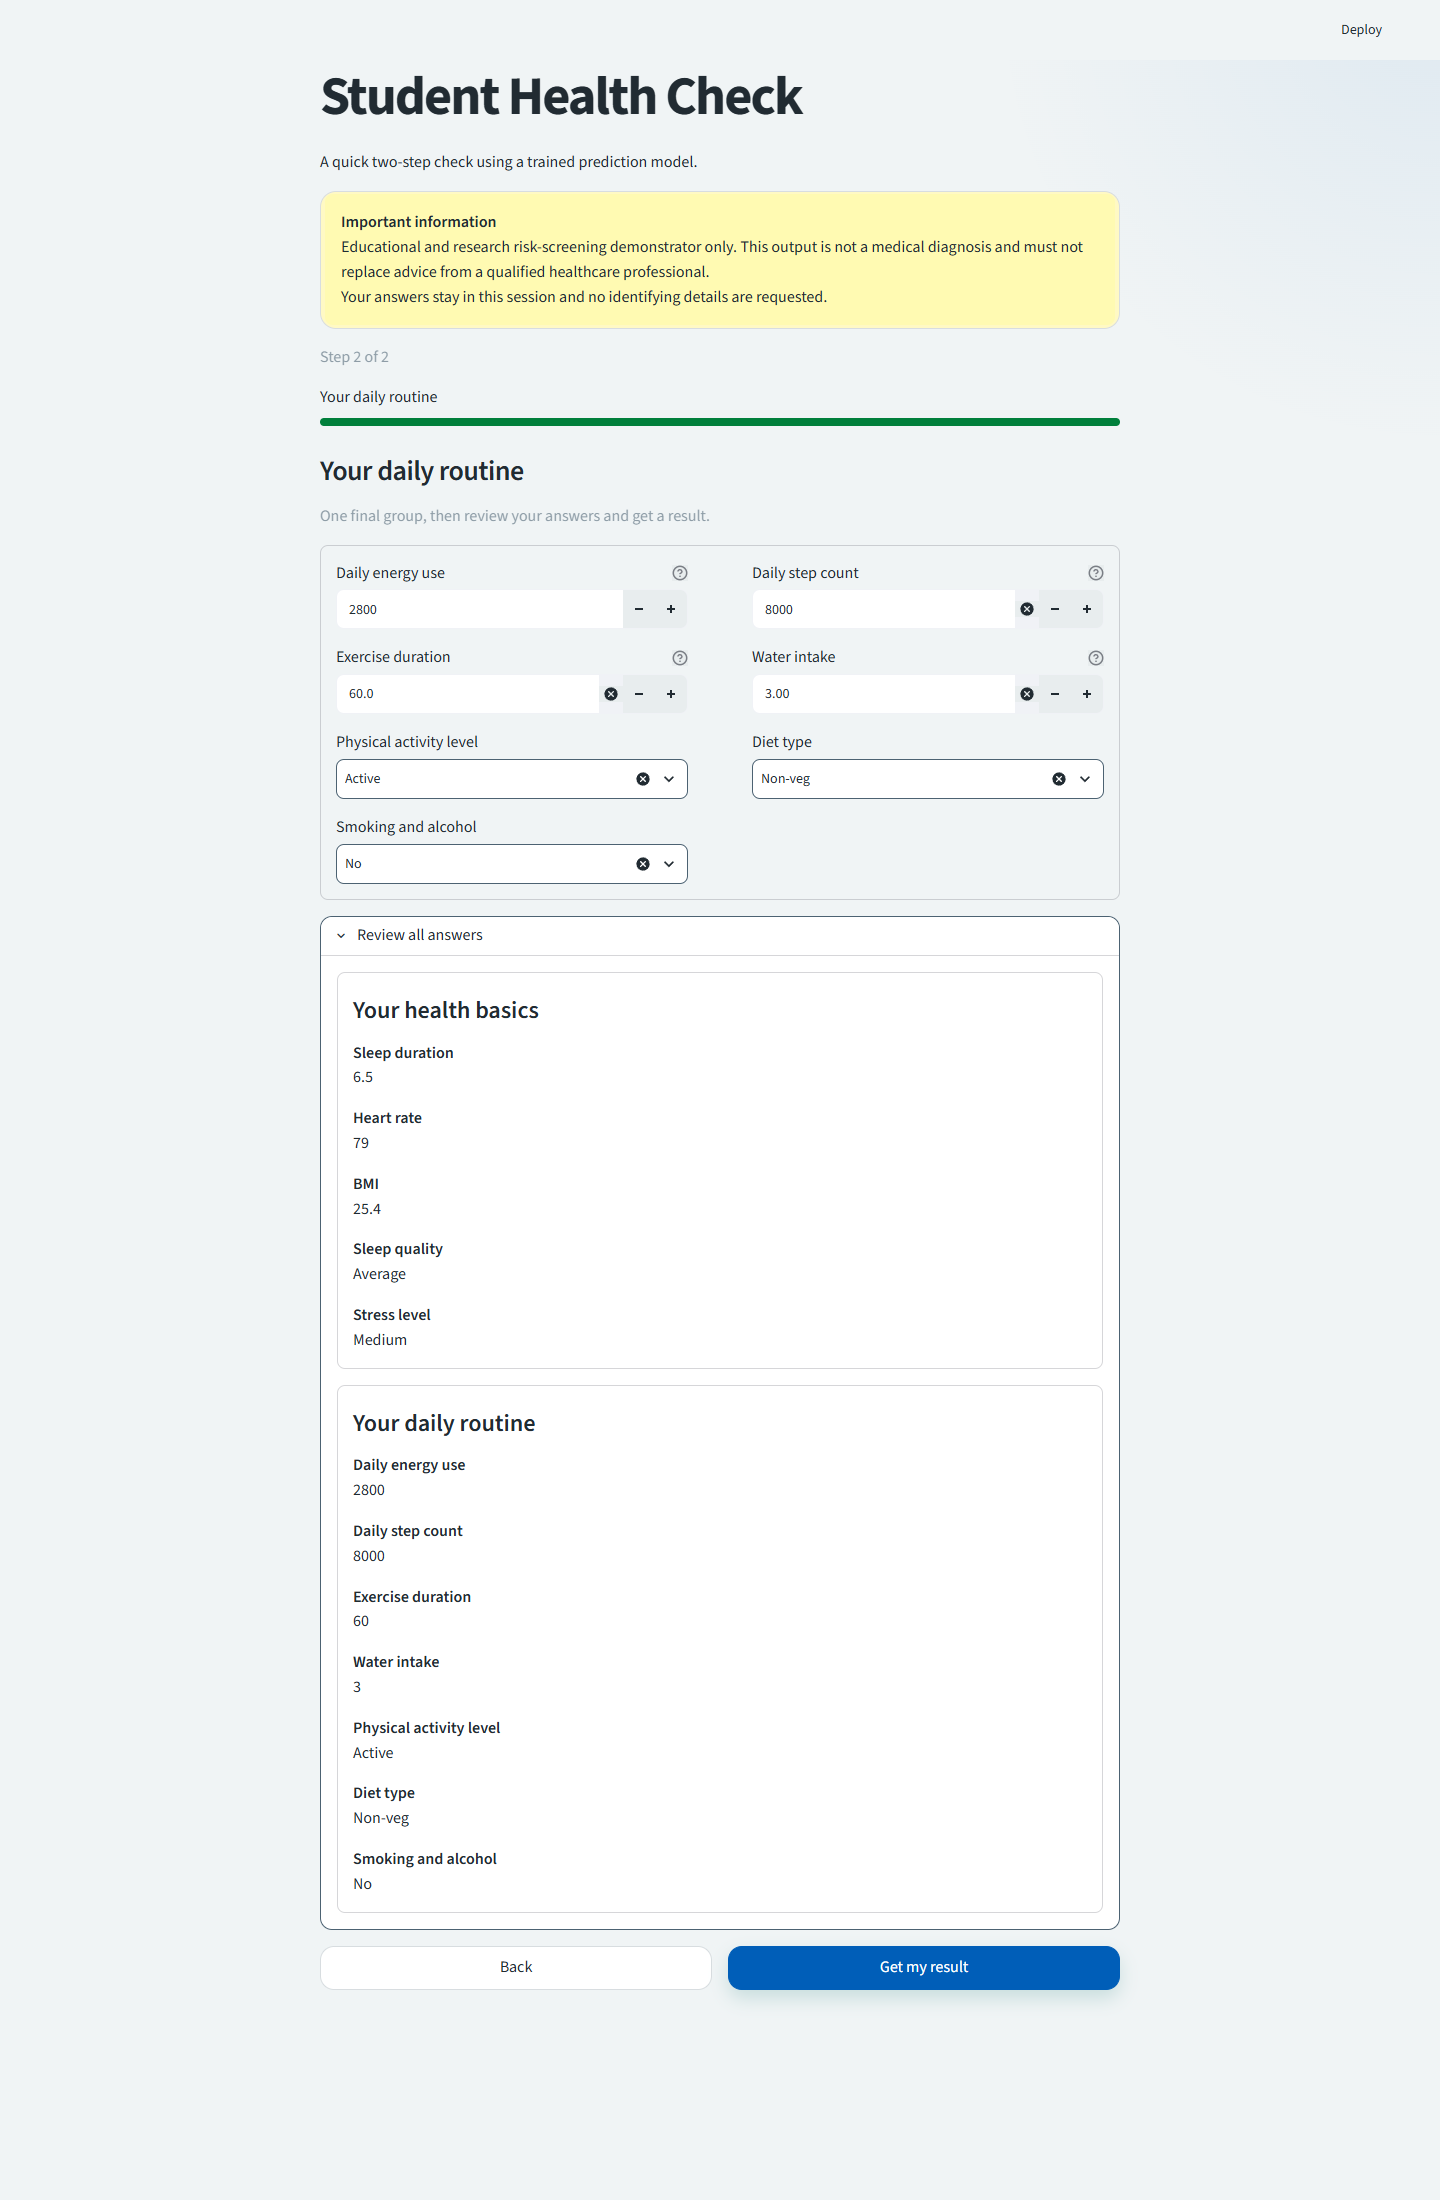
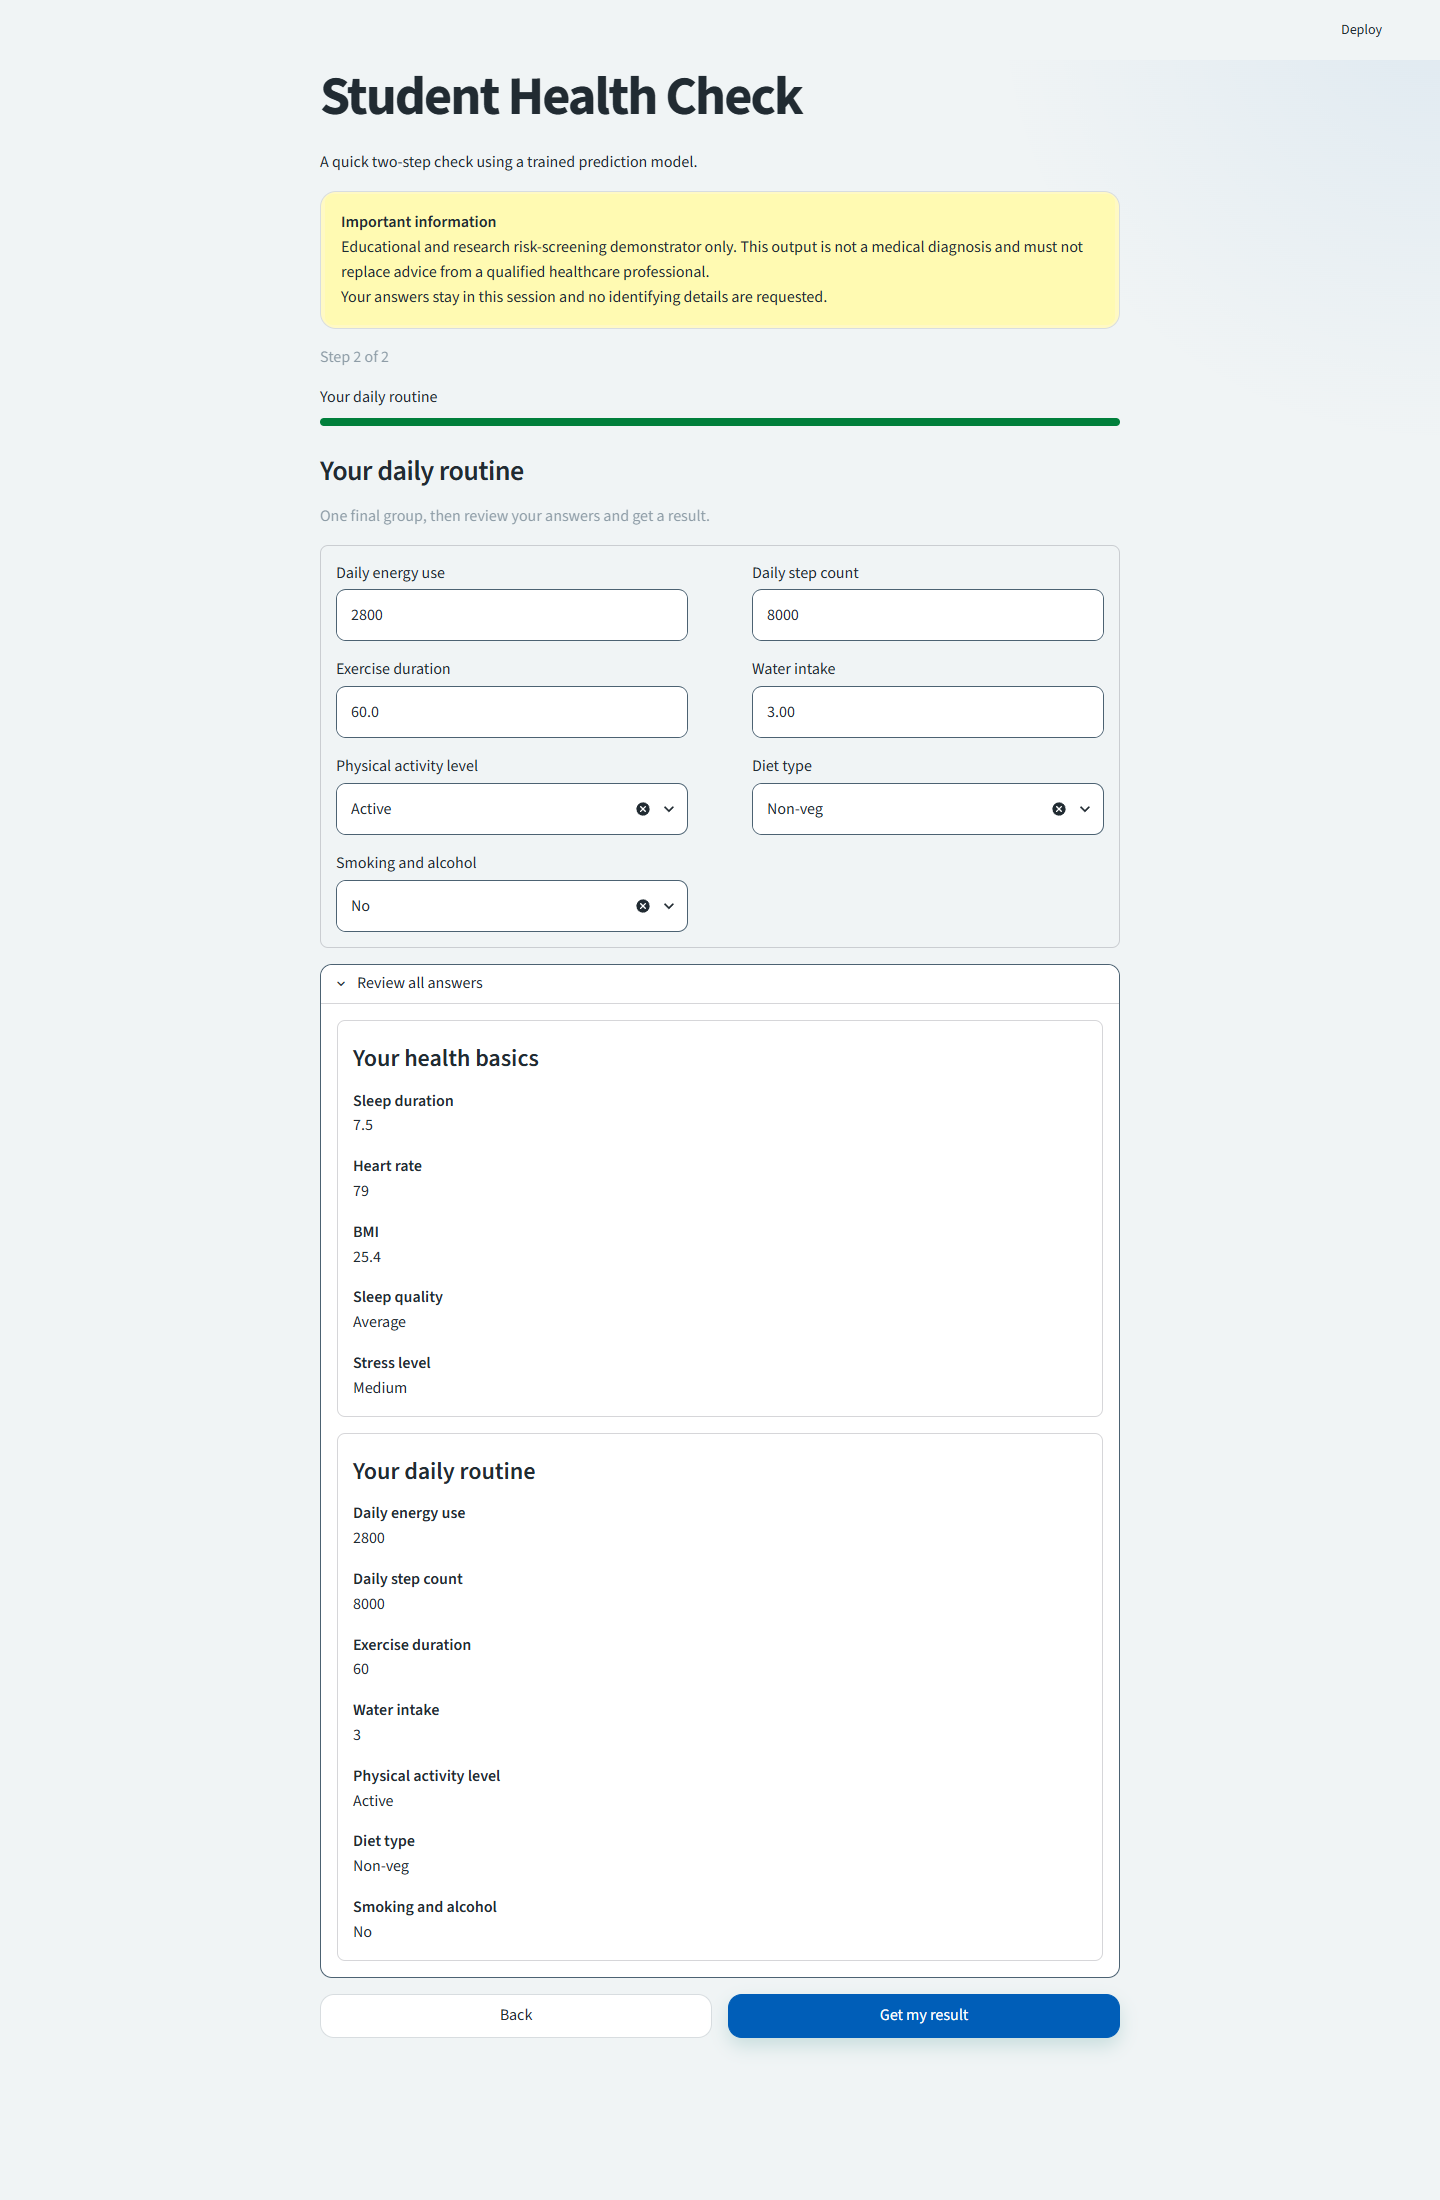
Refresh clean input evidence

diff --git a/README.md b/README.md
@@ -18,9 +18,9 @@ progress and one concise safety/privacy panel. One health check has two steps:
 2. **Your daily routine**, followed by a compact review and result action
 
 Numeric fields start blank and categorical fields prompt for an answer or
-**Not sure**. Practical increments make the `+` and `-` controls useful for
-each feature. Back and Continue preserve temporary answers, and the Step 2
-review shows all 12 model inputs before prediction. The
+**Not sure**. Numeric values use clean direct-entry fields with readable
+examples and no small increment controls. Back and Continue preserve temporary
+answers, and the Step 2 review shows all 12 model inputs before prediction. The
 result displays the predicted competition category first; the three model
 confidence scores are available in a collapsed panel. They are not described
 as calibrated probabilities.

diff --git a/docs/ASSESSOR_DEMONSTRATION.md b/docs/ASSESSOR_DEMONSTRATION.md
@@ -25,8 +25,8 @@ personal information.
 1. Show the title, permanent non-diagnostic disclaimer and privacy statement.
 2. Explain that the app requests only the 12 features required by the locked
    model and does not collect a name, student ID or contact details.
-3. On Step 1, show that numeric fields start blank, categorical fields prompt
-   for a choice, and the `+` and `-` controls use sensible increments.
+3. On Step 1, show that numeric fields start blank, support direct entry with
+   readable examples, and categorical fields prompt for a choice.
 4. Continue to Step 2, use **Not sure** once, then use **Back** to demonstrate
    temporary session-state handling. Return to Step 2 and open **Review all
    answers** to show all 12 features before inference.
